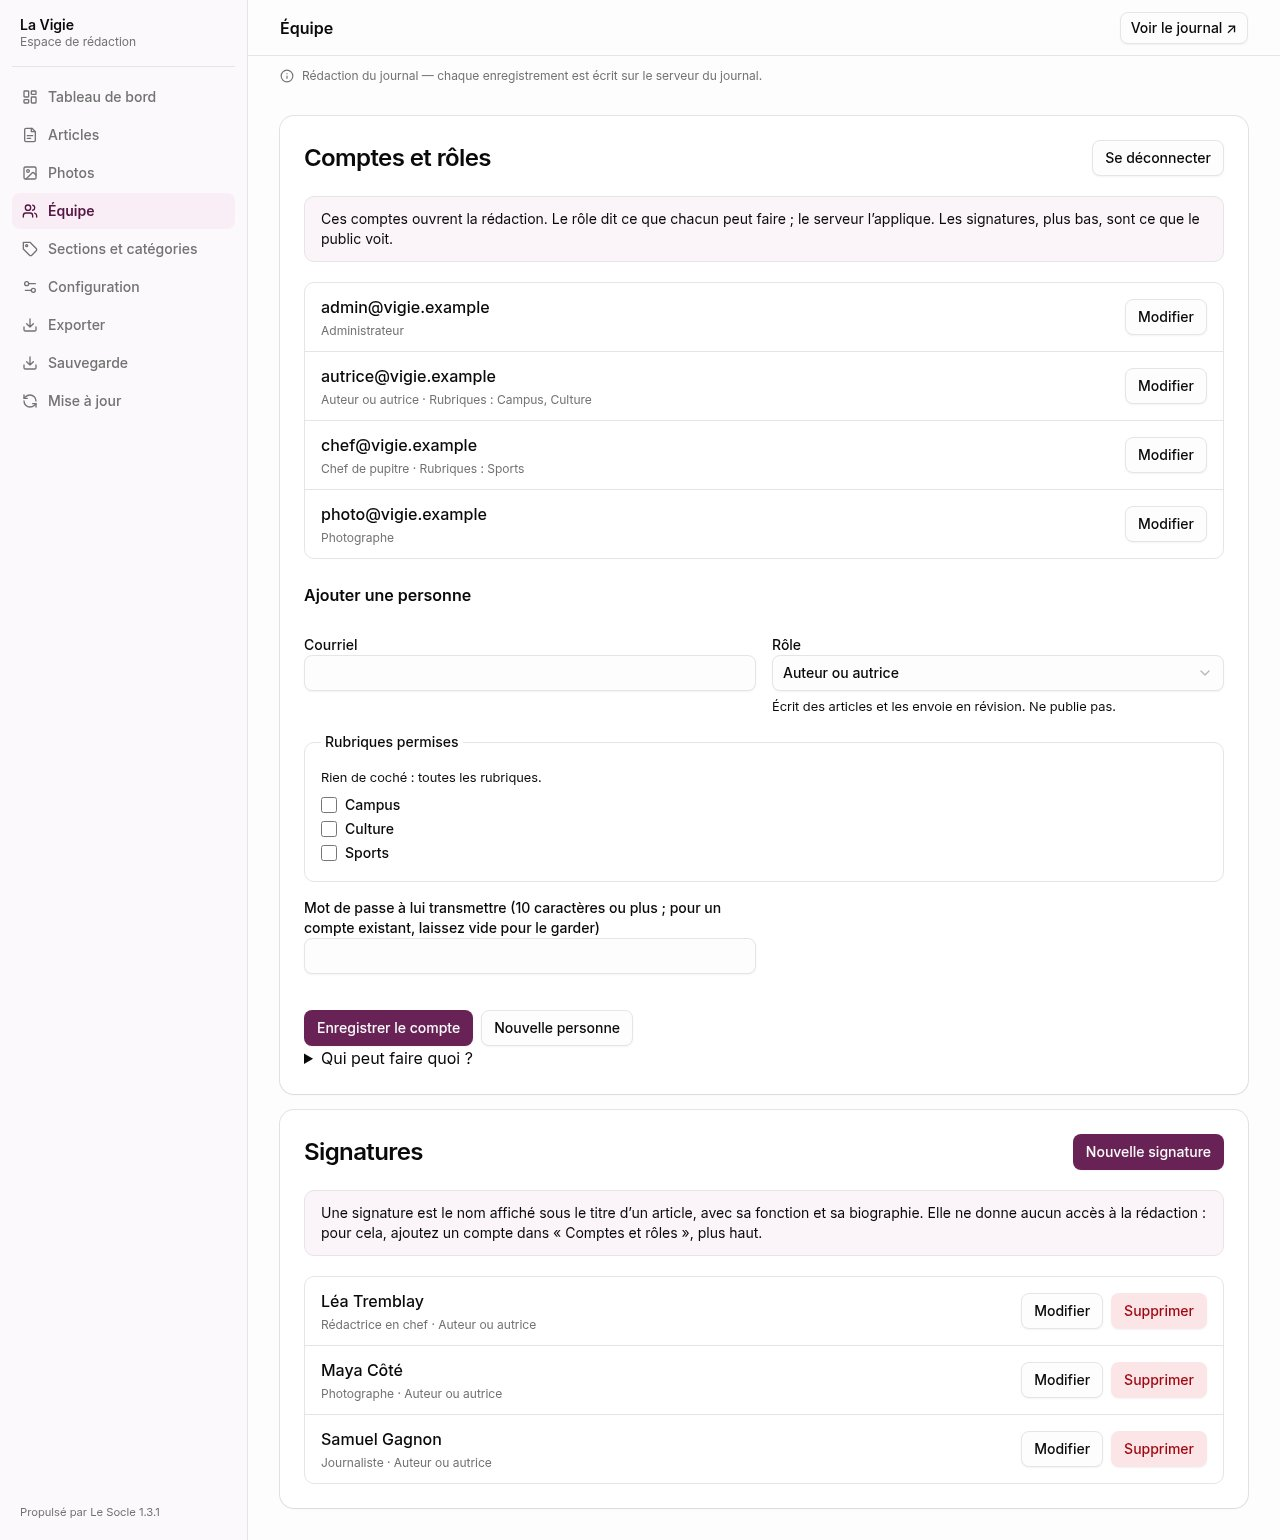
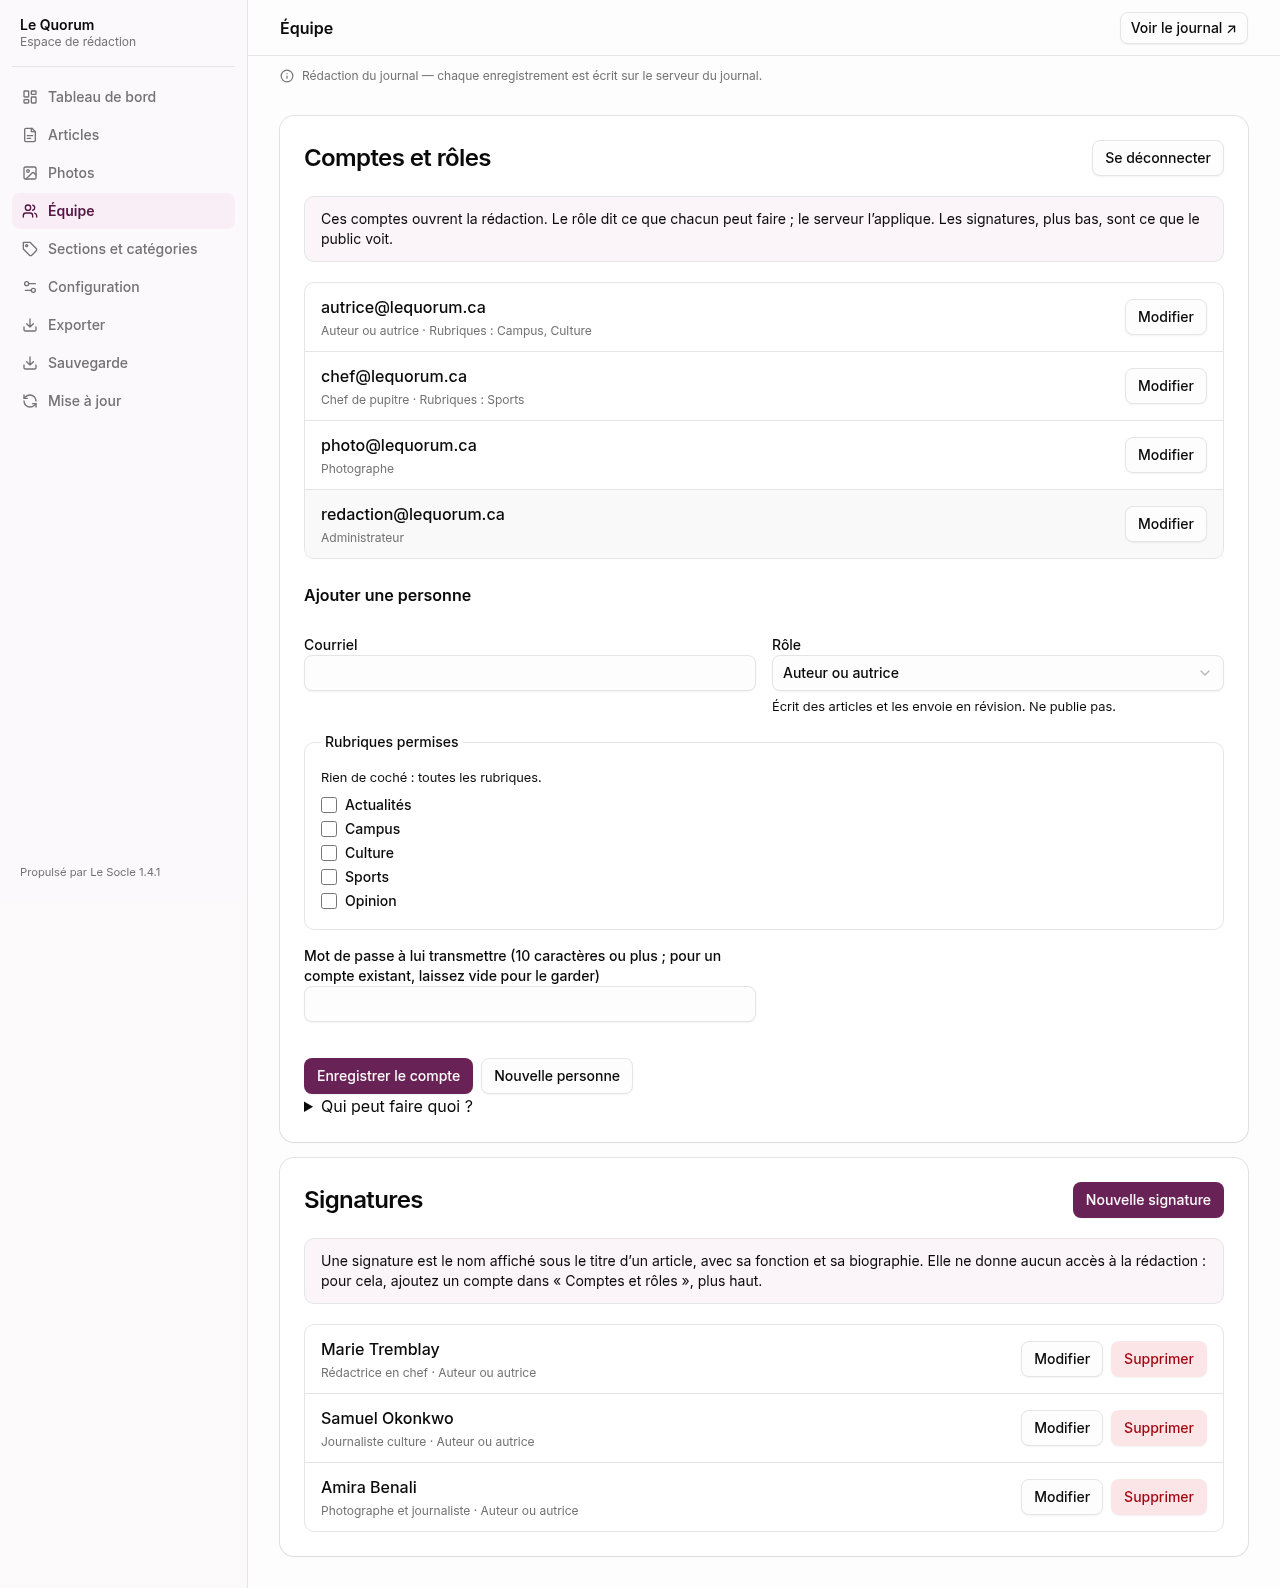
Remplace les captures de la page publique par des vues fraîches du Quorum
Le tableau de bord, l’équipe, la banque, l’éditeur, la sauvegarde et
l’assistant montrent Le Quorum et le Socle 1.4.1. La galerie place la
sauvegarde en pleine largeur pour éviter un trou à côté des vues hautes.

diff --git a/site/index.html b/site/index.html
@@ -54,8 +54,8 @@
 
     <div class="wrap">
       <figure class="frame">
-        <img src="assets/captures/tableau-de-bord.jpg" width="1280" height="900" alt="Tableau de bord de l’espace de rédaction de La Vigie, avec le nombre d’articles et le rôle Administrateur." loading="eager">
-        <figcaption>Le tableau de bord, sur La Vigie, journal fictif utilisé pour un essai d’installation.</figcaption>
+        <img src="assets/captures/tableau-de-bord.jpg" width="1280" height="530" alt="Tableau de bord de l’espace de rédaction du Quorum, avec le nombre d’articles, de brouillons et de signatures." loading="eager">
+        <figcaption>Le tableau de bord, sur Le Quorum, journal de démonstration.</figcaption>
       </figure>
     </div>
 
@@ -74,11 +74,11 @@
         </div>
         <div class="gallery">
           <figure class="shot shot--tall">
-            <img src="assets/captures/equipe-roles.jpg" width="1280" height="1540" alt="Liste des comptes : administrateur, autrice limitée à des rubriques, chef de pupitre et photographe." loading="lazy">
+            <img src="assets/captures/equipe-roles.jpg" width="1280" height="1588" alt="Liste des comptes du Quorum : administrateur, autrice limitée à des rubriques, chef de pupitre et photographe, puis les signatures." loading="lazy">
             <figcaption>Les comptes de l’équipe, avec restriction par rubrique.</figcaption>
           </figure>
           <figure class="shot shot--tall">
-            <img src="assets/captures/banque-photos.jpg" width="1280" height="2036" alt="Banque de photos avec crédit et licence sous chaque image." loading="lazy">
+            <img src="assets/captures/banque-photos.jpg" width="1280" height="1940" alt="Banque de photos du Quorum, avec crédit et licence sous chaque image." loading="lazy">
             <figcaption>La banque de photos : le crédit est obligatoire, la licence s’affiche sur le site.</figcaption>
           </figure>
         </div>
@@ -92,16 +92,16 @@
         <p class="intro">L’éditeur enregistre ce que l’on voit. On peut prévisualiser un article dans le thème, sans le publier. Une sauvegarde complète tient dans un fichier ZIP, à garder hors du serveur ; la même page restaure une archive. Quand une version est publiée, la page Mise à jour la propose en un clic.</p>
         <div class="gallery">
           <figure class="shot shot--tall">
-            <img src="assets/captures/editeur-article.jpg" width="1400" height="2312" alt="Formulaire de rédaction d’un article, avec le bouton Prévisualiser sans publier." loading="lazy">
+            <img src="assets/captures/editeur-article.jpg" width="1400" height="2752" alt="Formulaire de rédaction d’un article du Quorum, avec la photo principale et le bouton Prévisualiser sans publier." loading="lazy">
             <figcaption>L’éditeur d’article.</figcaption>
-          </figure>
-          <figure class="shot shot--tall">
-            <img src="assets/captures/sauvegarde.jpg" width="1280" height="907" alt="Page Sauvegarde : télécharger la sauvegarde complète, archives par année ou par session, et restaurer une archive." loading="lazy">
-            <figcaption>La page Sauvegarde, réservée à l’administrateur.</figcaption>
           </figure>
           <figure class="shot shot--tall">
             <img src="assets/captures/assistant-installation.jpg" width="1280" height="1924" alt="Assistant d’installation du journal, champs encore vides." loading="lazy">
             <figcaption>L’assistant d’installation, à la première visite.</figcaption>
+          </figure>
+          <figure class="shot shot--wide">
+            <img src="assets/captures/sauvegarde.jpg" width="1280" height="907" alt="Page Sauvegarde : télécharger la sauvegarde complète, archives par année ou par session, et restaurer une archive." loading="lazy">
+            <figcaption>La page Sauvegarde, réservée à l’administrateur.</figcaption>
           </figure>
         </div>
       </div>

diff --git a/site/assets/vitrine.css b/site/assets/vitrine.css
@@ -88,6 +88,7 @@ h1, h2, h3, .wordmark {
 .intro { margin: 1rem 0 0; max-width: 40rem; color: var(--muted-foreground); font-size: 1.05rem; line-height: 1.6; }
 .features, .gallery { display: grid; gap: 1rem; margin-top: 2rem; }
 @media (min-width: 720px) { .features, .gallery { grid-template-columns: 1fr 1fr; } }
+.gallery > .shot--wide { grid-column: 1 / -1; }
 .features article { padding: 1.15rem 1.2rem 1.25rem; border: 1px solid var(--rule); border-radius: .9rem; background: var(--paper-2); }
 .features h3 { margin: 0; font-size: 1.1rem; }
 .features p { margin: .4rem 0 0; color: var(--muted-foreground); }

diff --git a/README.md b/README.md
@@ -13,7 +13,7 @@ Le Socle n’est pas un service central. Chaque journal installe sa propre copie
 
 [![Tableau de bord de l’espace de rédaction](site/assets/captures/tableau-de-bord.jpg)](https://azdak919.github.io/le-socle/)
 
-<p align="center"><em>Le tableau de bord, sur un journal d’essai (La Vigie, journal fictif).</em></p>
+<p align="center"><em>Le tableau de bord, sur Le Quorum, journal de démonstration.</em></p>
 
 - **Page de présentation :** <https://azdak919.github.io/le-socle/>
 - **La plateforme dont il fait partie :** <https://azdak919.github.io/le-kiosque/>
